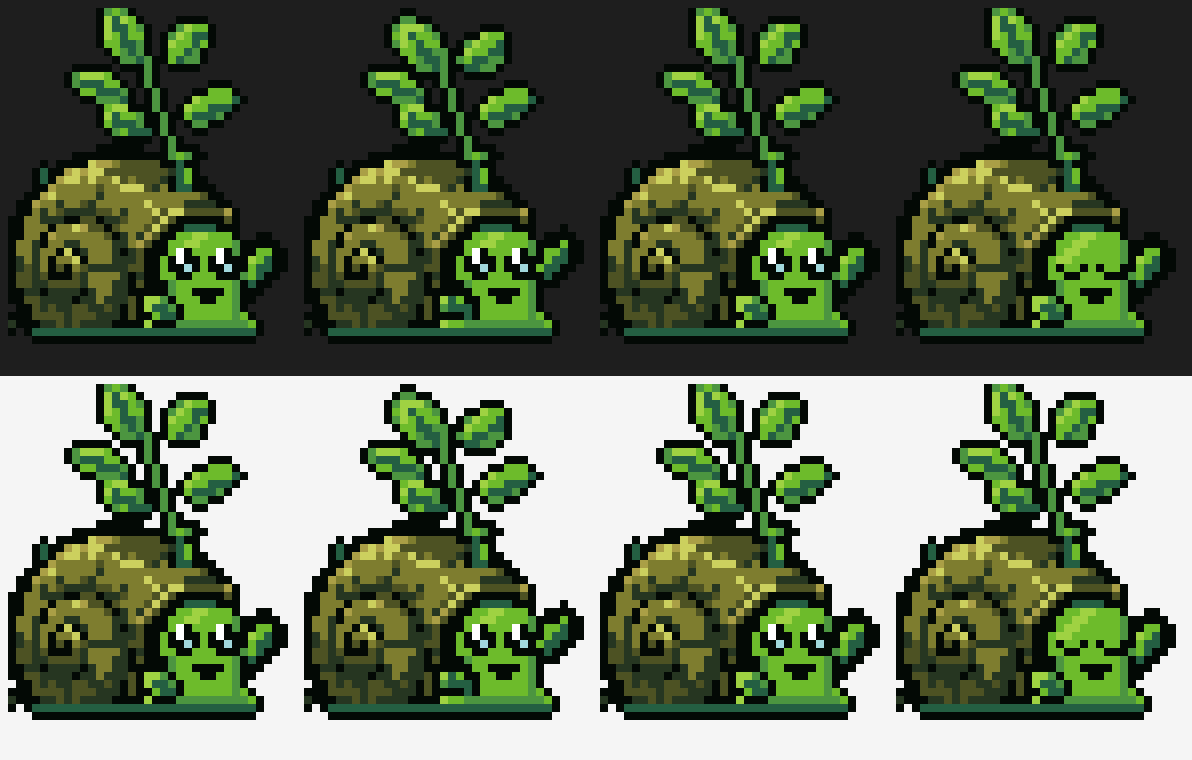
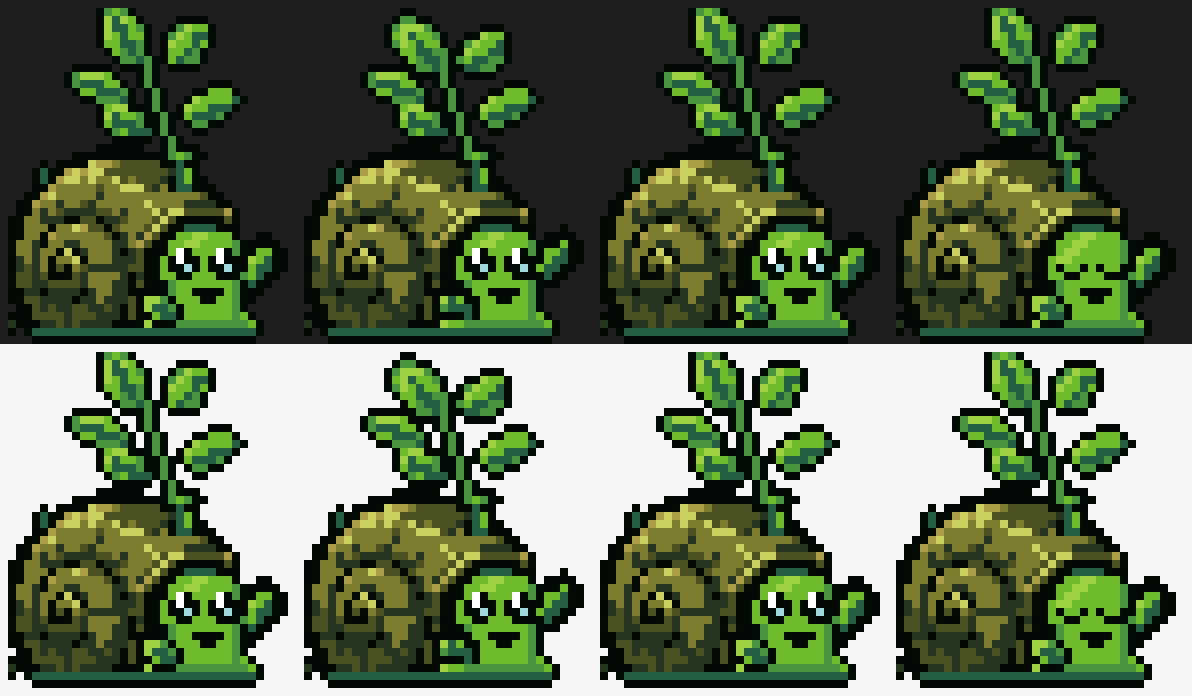
P5-19: trim Shellsprout to 36x42 (drop 4 empty rows)

diff --git a/docs/sessions/2026-10-14-danielpg95-P5-19.md b/docs/sessions/2026-10-14-danielpg95-P5-19.md
@@ -15,7 +15,7 @@ the three placeholders, add three new Modsters, and bring Whispering Forest to
 
 - P5-19 added to `docs/ROADMAP.md` and claimed (PR #110).
 - Redrawn placeholders, now official (ids unchanged, decision 0017):
-  - `plugin/content/modsters/sproutling/`: shown as **Shellsprout**, #021, common, grass, Seed Snail Modster. A snail with a big olive spiral shell, a five-leaf sprout and two leaf arms. 36×46, 4 frames, 4 fps.
+  - `plugin/content/modsters/sproutling/`: shown as **Shellsprout**, #021, common, grass, Seed Snail Modster. A snail with a big olive spiral shell, a five-leaf sprout and two leaf arms. 36×42, 4 frames, 4 fps.
   - `plugin/content/modsters/mossbeast/`: shown as **Mossmaul**, #022, uncommon, grass/rock, Moss Bear Modster. A bear cub under a moss blanket with two stones. 28×20, 4 frames, 4 fps.
   - `plugin/content/modsters/acornsprite/`: **Acornsprite**, #023, rare, fairy/grass, Acorn Fairy Modster. A fairy in an acorn-cap hood with four veined wings. 24×24, 4 frames, 8 fps.
 - New Modsters:
@@ -35,7 +35,7 @@ the three placeholders, add three new Modsters, and bring Whispering Forest to
 
 ## Problems and findings
 
-- Shellsprout was redone at 36×46 from @danielpg95's own reference image. A straight shrink of a detailed image doesn't make a clean sprite: thick outlines turn into black blobs and faces blur. What worked: cut the background out along the image's dark outline, shrink by majority color per cell (keeps thin lines like the spiral), keep the shell from that, and repaint the sprout, head and face by hand.
+- Shellsprout was redone at 36×42 from @danielpg95's own reference image. A straight shrink of a detailed image doesn't make a clean sprite: thick outlines turn into black blobs and faces blur. What worked: cut the background out along the image's dark outline, shrink by majority color per cell (keeps thin lines like the spiral), keep the shell from that, and repaint the sprout, head and face by hand.
 
 - The automatic outline only paints onto empty pixels, so overlapping parts (an ear on a log, an arm on a cape) blend together. These need a manual outline against the other material; Hollowmask's ears and tail, and Musketail's arm, do this.
 - At this size, faces fail fast on low contrast. What worked: flat face tones, eyes that contrast with what's around them (ice blue on a dark mask), and no ellipse shading near a muzzle (it reads as a beak).
